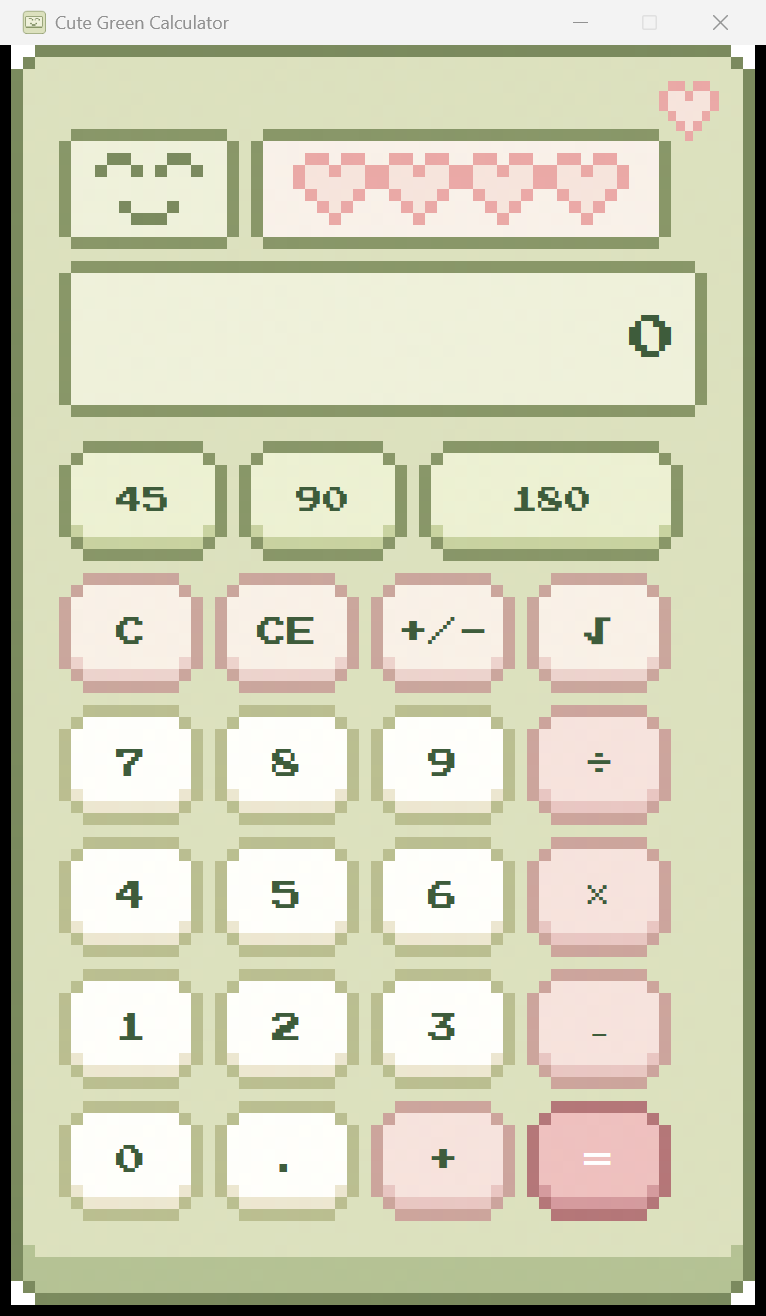
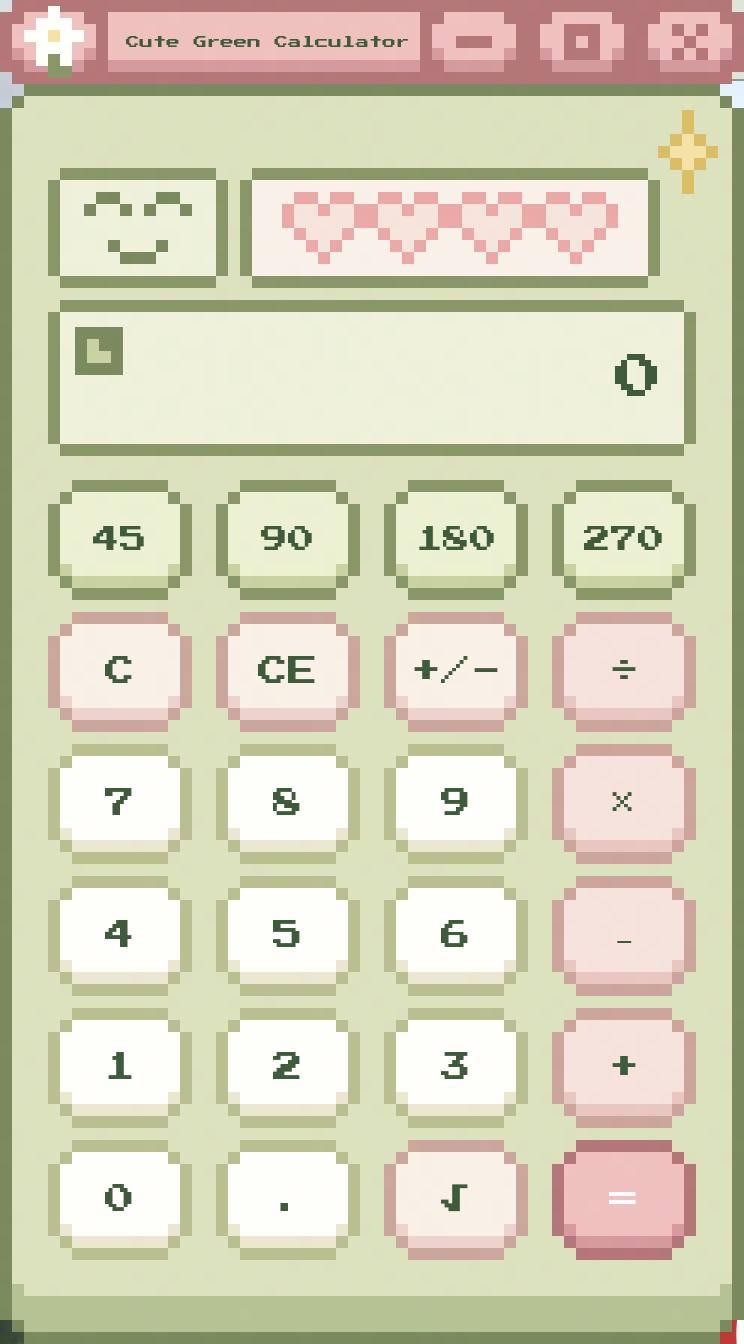
Update README: blossom emoji, heart toggles feature, project layout diagram, tech stack section, fresh screenshot (#28)

diff --git a/README.md b/README.md
@@ -1,4 +1,4 @@
-# Cute Green Calculator 🩵
+# Cute Green Calculator 🌼
 
 A lightweight, pixel-art desktop calculator for Windows, built with WPF.
 It looks like a cozy little handheld gadget and works like a real
@@ -20,8 +20,22 @@ with the mouse.
 - **Copy/paste** — copy the display with Ctrl+C, paste a number back in
   with Ctrl+V, or use the right-click context menu on the display.
 - **Always-on-top toggle** — pin the calculator above other windows.
+- **Heart toggles** — 4 clickable hearts in the status row form a
+  left-to-right threshold group: click one to toggle it and everything to
+  its right on, click the leftmost lit heart again to clear the group.
+  Purely decorative.
 - Crisp, unblurred pixel art at any Windows display scale (Per-Monitor-V2
   DPI awareness).
+
+## Tech stack
+
+- **.NET 10** / **WPF** (`net10.0-windows`), no third-party UI libraries.
+- **xunit** for the test suite.
+- **[OpenSpec](openspec/)** for spec-driven planning — each feature is
+  proposed, specified, and archived as a change under `openspec/`, one per
+  GitHub issue.
+- **GitHub Actions** for CI (build + test on every push) and releases
+  (self-contained `win-x64` publish attached to a GitHub Release on tag push).
 
 ## Building and running
 
@@ -58,12 +72,6 @@ The self-contained, single-file executable is written to
 Pushing a `v*` tag (or running the [Release workflow](.github/workflows/release.yml)
 manually) builds this same artifact in CI and attaches it to a GitHub
 Release automatically.
-
-## Project layout
-
-This project is built and tracked through OpenSpec changes under
-[openspec/](openspec/), one per GitHub issue — see `openspec/changes/archive/`
-for the history of how each feature was specified and implemented.
 
 ## License
 
